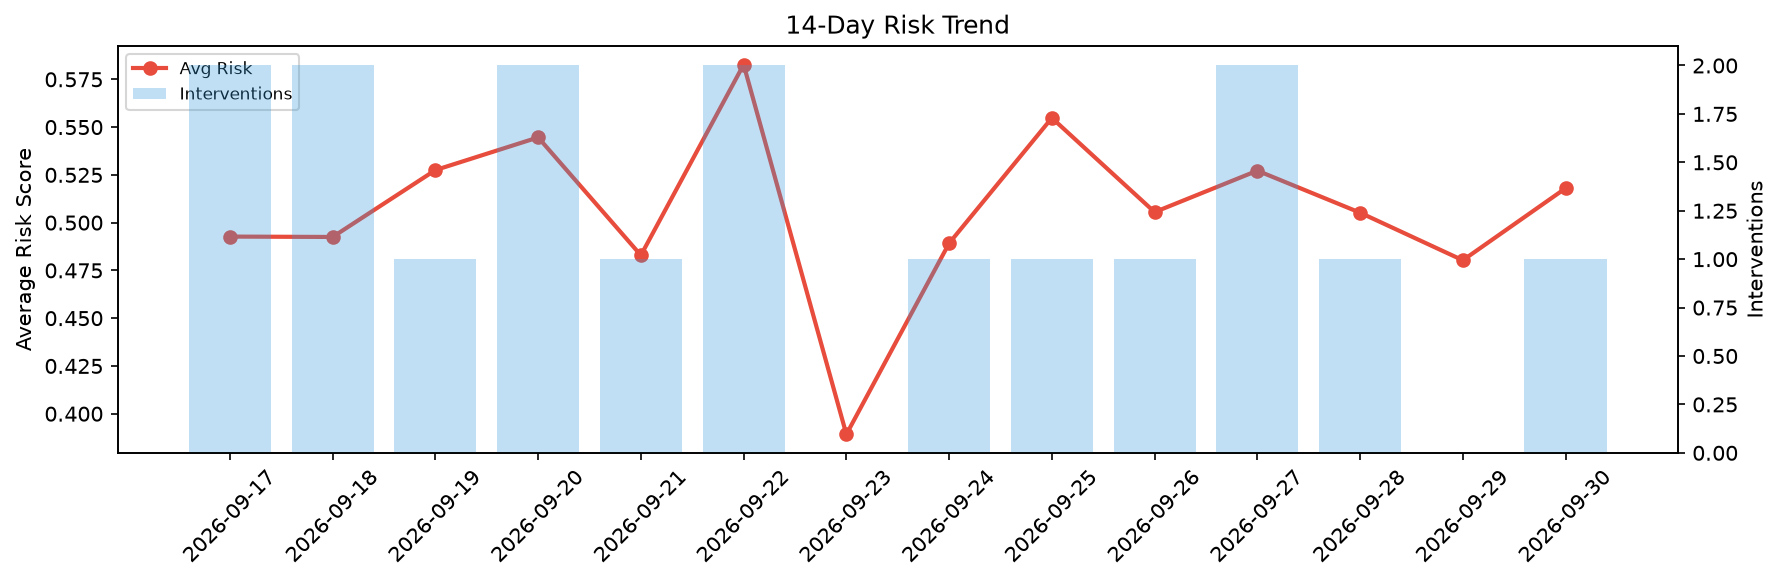
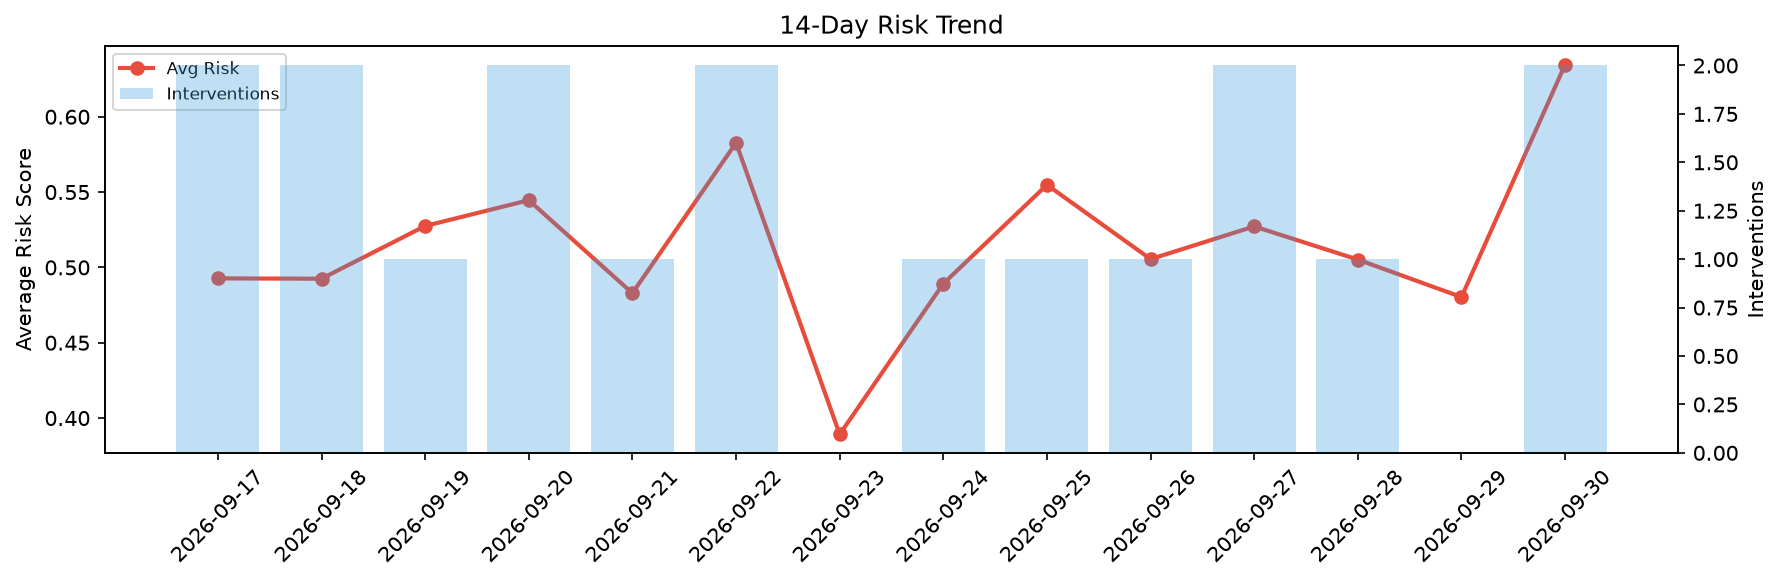
agent-improvement: daily cycle 2026-09-30T23:46

diff --git a/logs/2026-09-30.md b/logs/2026-09-30.md
@@ -1,6 +1,6 @@
 # Agent Improvement Report — 2026-09-30
 
-**Cycle ID:** `5c587eb8` | **Avg Risk:** 0.518 | **Interventions:** 1/4
+**Cycle ID:** `19557f28` | **Avg Risk:** 0.6346 | **Interventions:** 2/4
 
 ![Dashboard](2026-09-30_dashboard.png)
 
@@ -10,18 +10,18 @@
 
 | Domain | Risk Score | Decision | Alerts |
 |--------|-----------|----------|--------|
-| code_review | 0.2712 | monitor | none |
-| incident_response | 0.5707 | monitor | none |
-| data_pipeline | 0.6878 | intervene | freshness, volume_anomaly |
-| deployment | 0.5423 | monitor | rollback_rate |
+| code_review | 0.5674 | monitor | none |
+| incident_response | 0.5605 | monitor | blast_radius |
+| data_pipeline | 0.6038 | intervene | freshness |
+| deployment | 0.8068 | intervene | latency_p99 |
 
 ## Delta vs Yesterday
 
 | Domain | Today | Yesterday | Change |
 |--------|-------|-----------|--------|
-| code_review | 0.2712 | 0.357 | 📉 -24.0% |
-| incident_response | 0.5707 | 0.4685 | 📈 21.8% |
-| data_pipeline | 0.6878 | 0.5207 | 📈 32.1% |
-| deployment | 0.5423 | 0.5748 | 📉 -5.7% |
+| code_review | 0.5674 | 0.357 | 📈 58.9% |
+| incident_response | 0.5605 | 0.4685 | 📈 19.6% |
+| data_pipeline | 0.6038 | 0.5207 | 📈 16.0% |
+| deployment | 0.8068 | 0.5748 | 📈 40.4% |
 
 **Refinement:** `{'adjustment': 'tighten_thresholds', 'trend': 'degrading', 'window': 4}`
